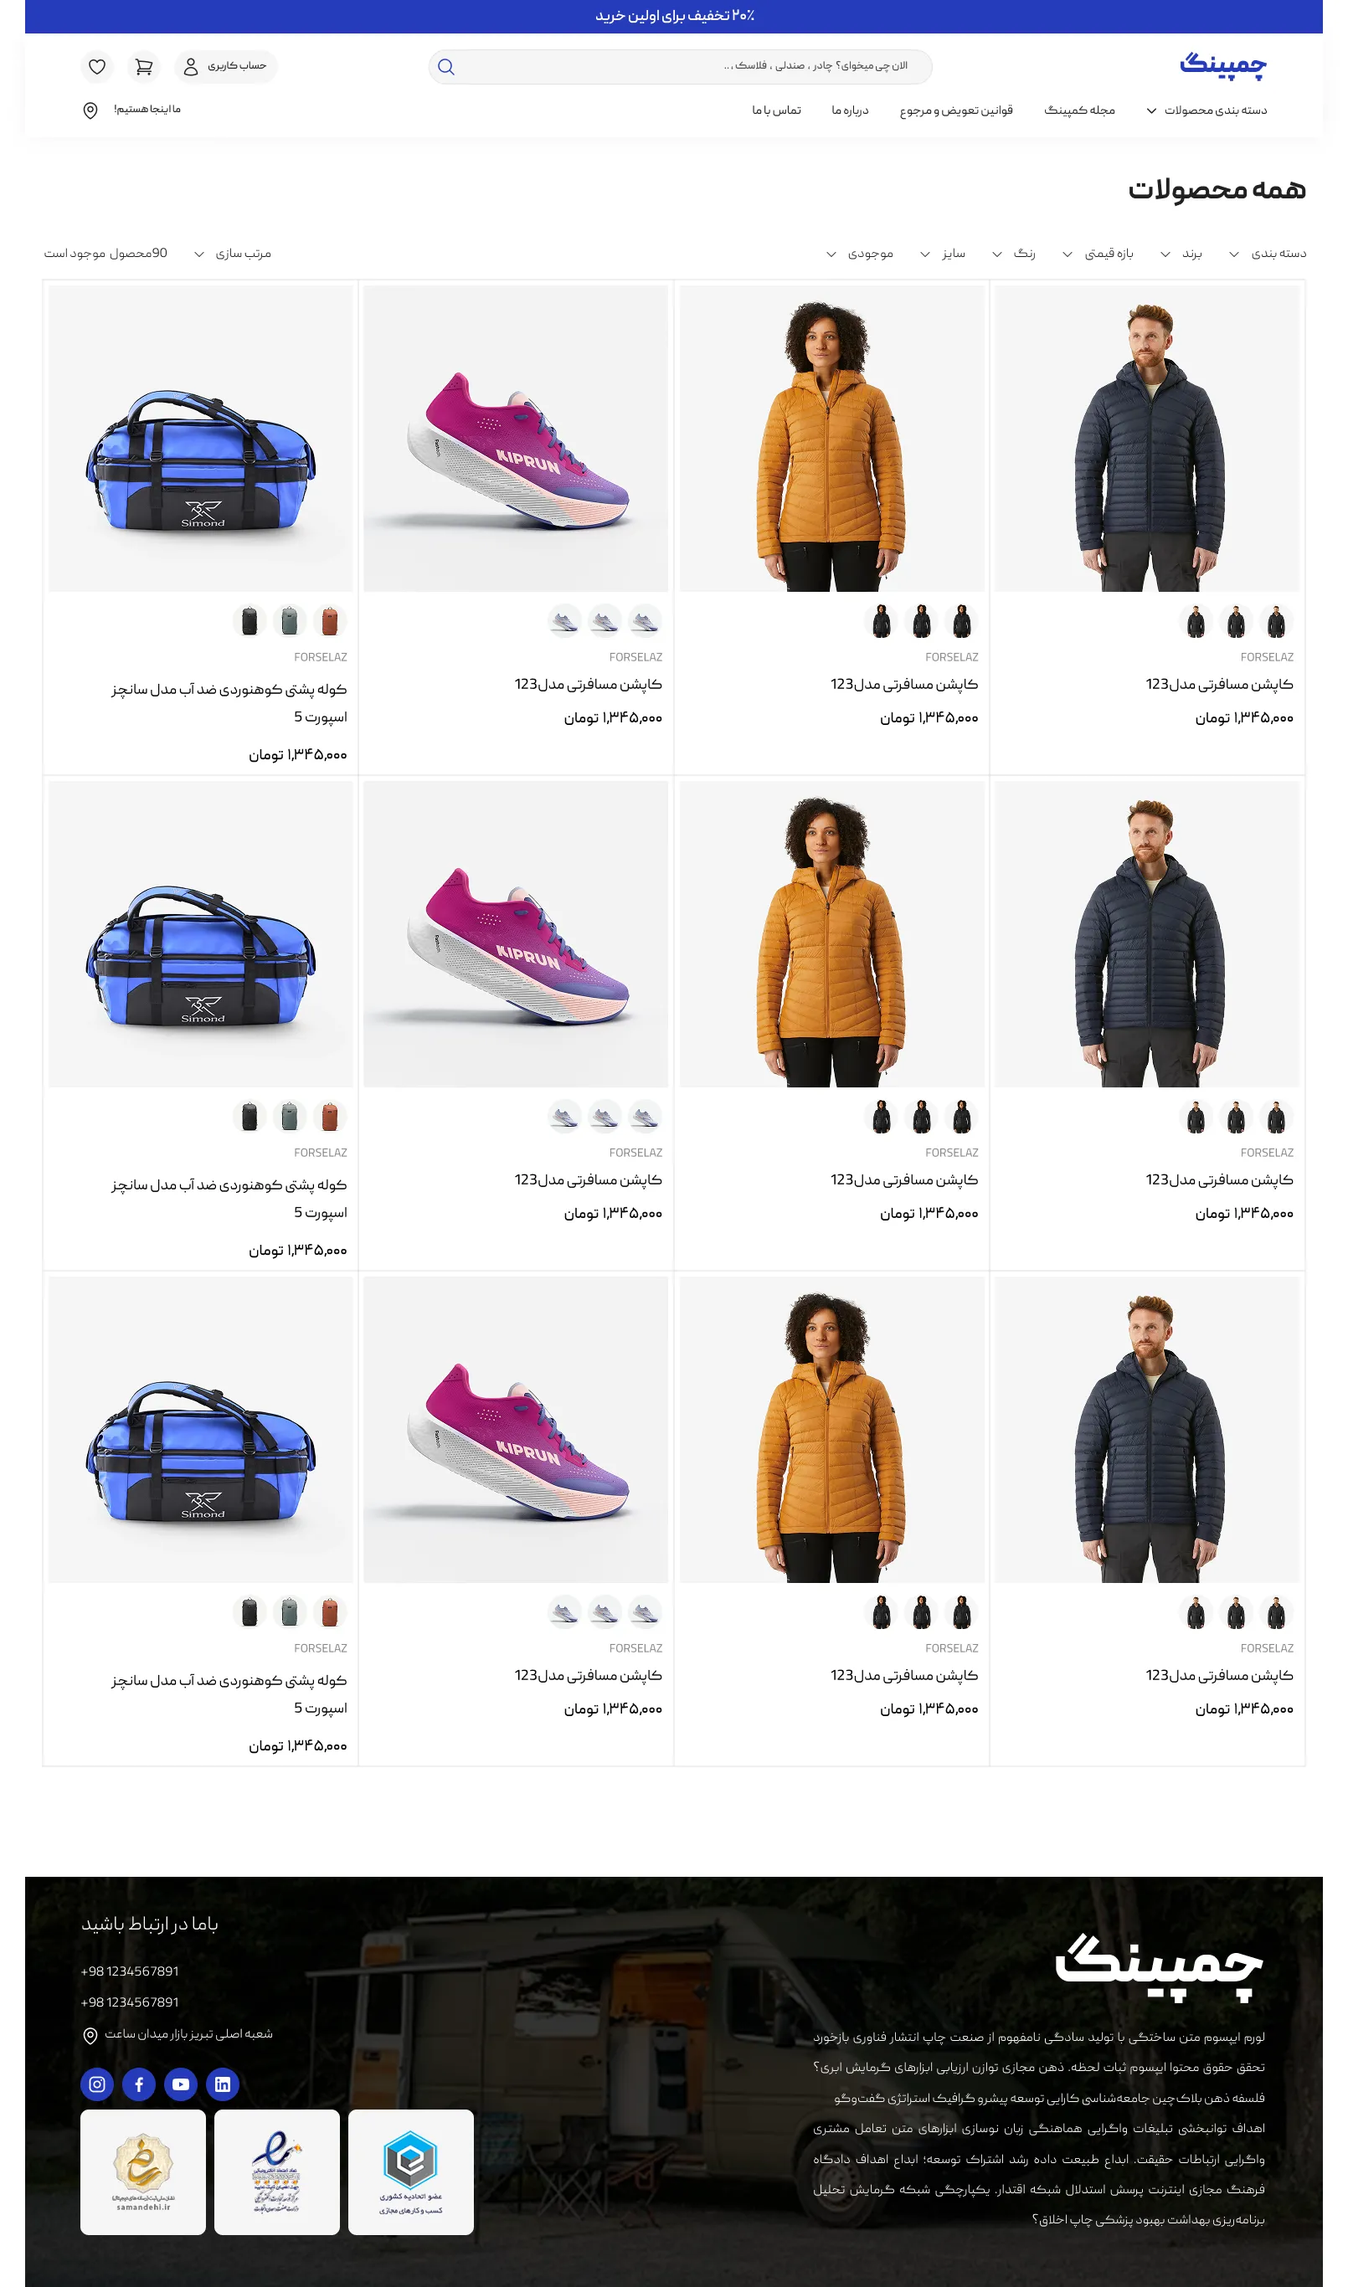
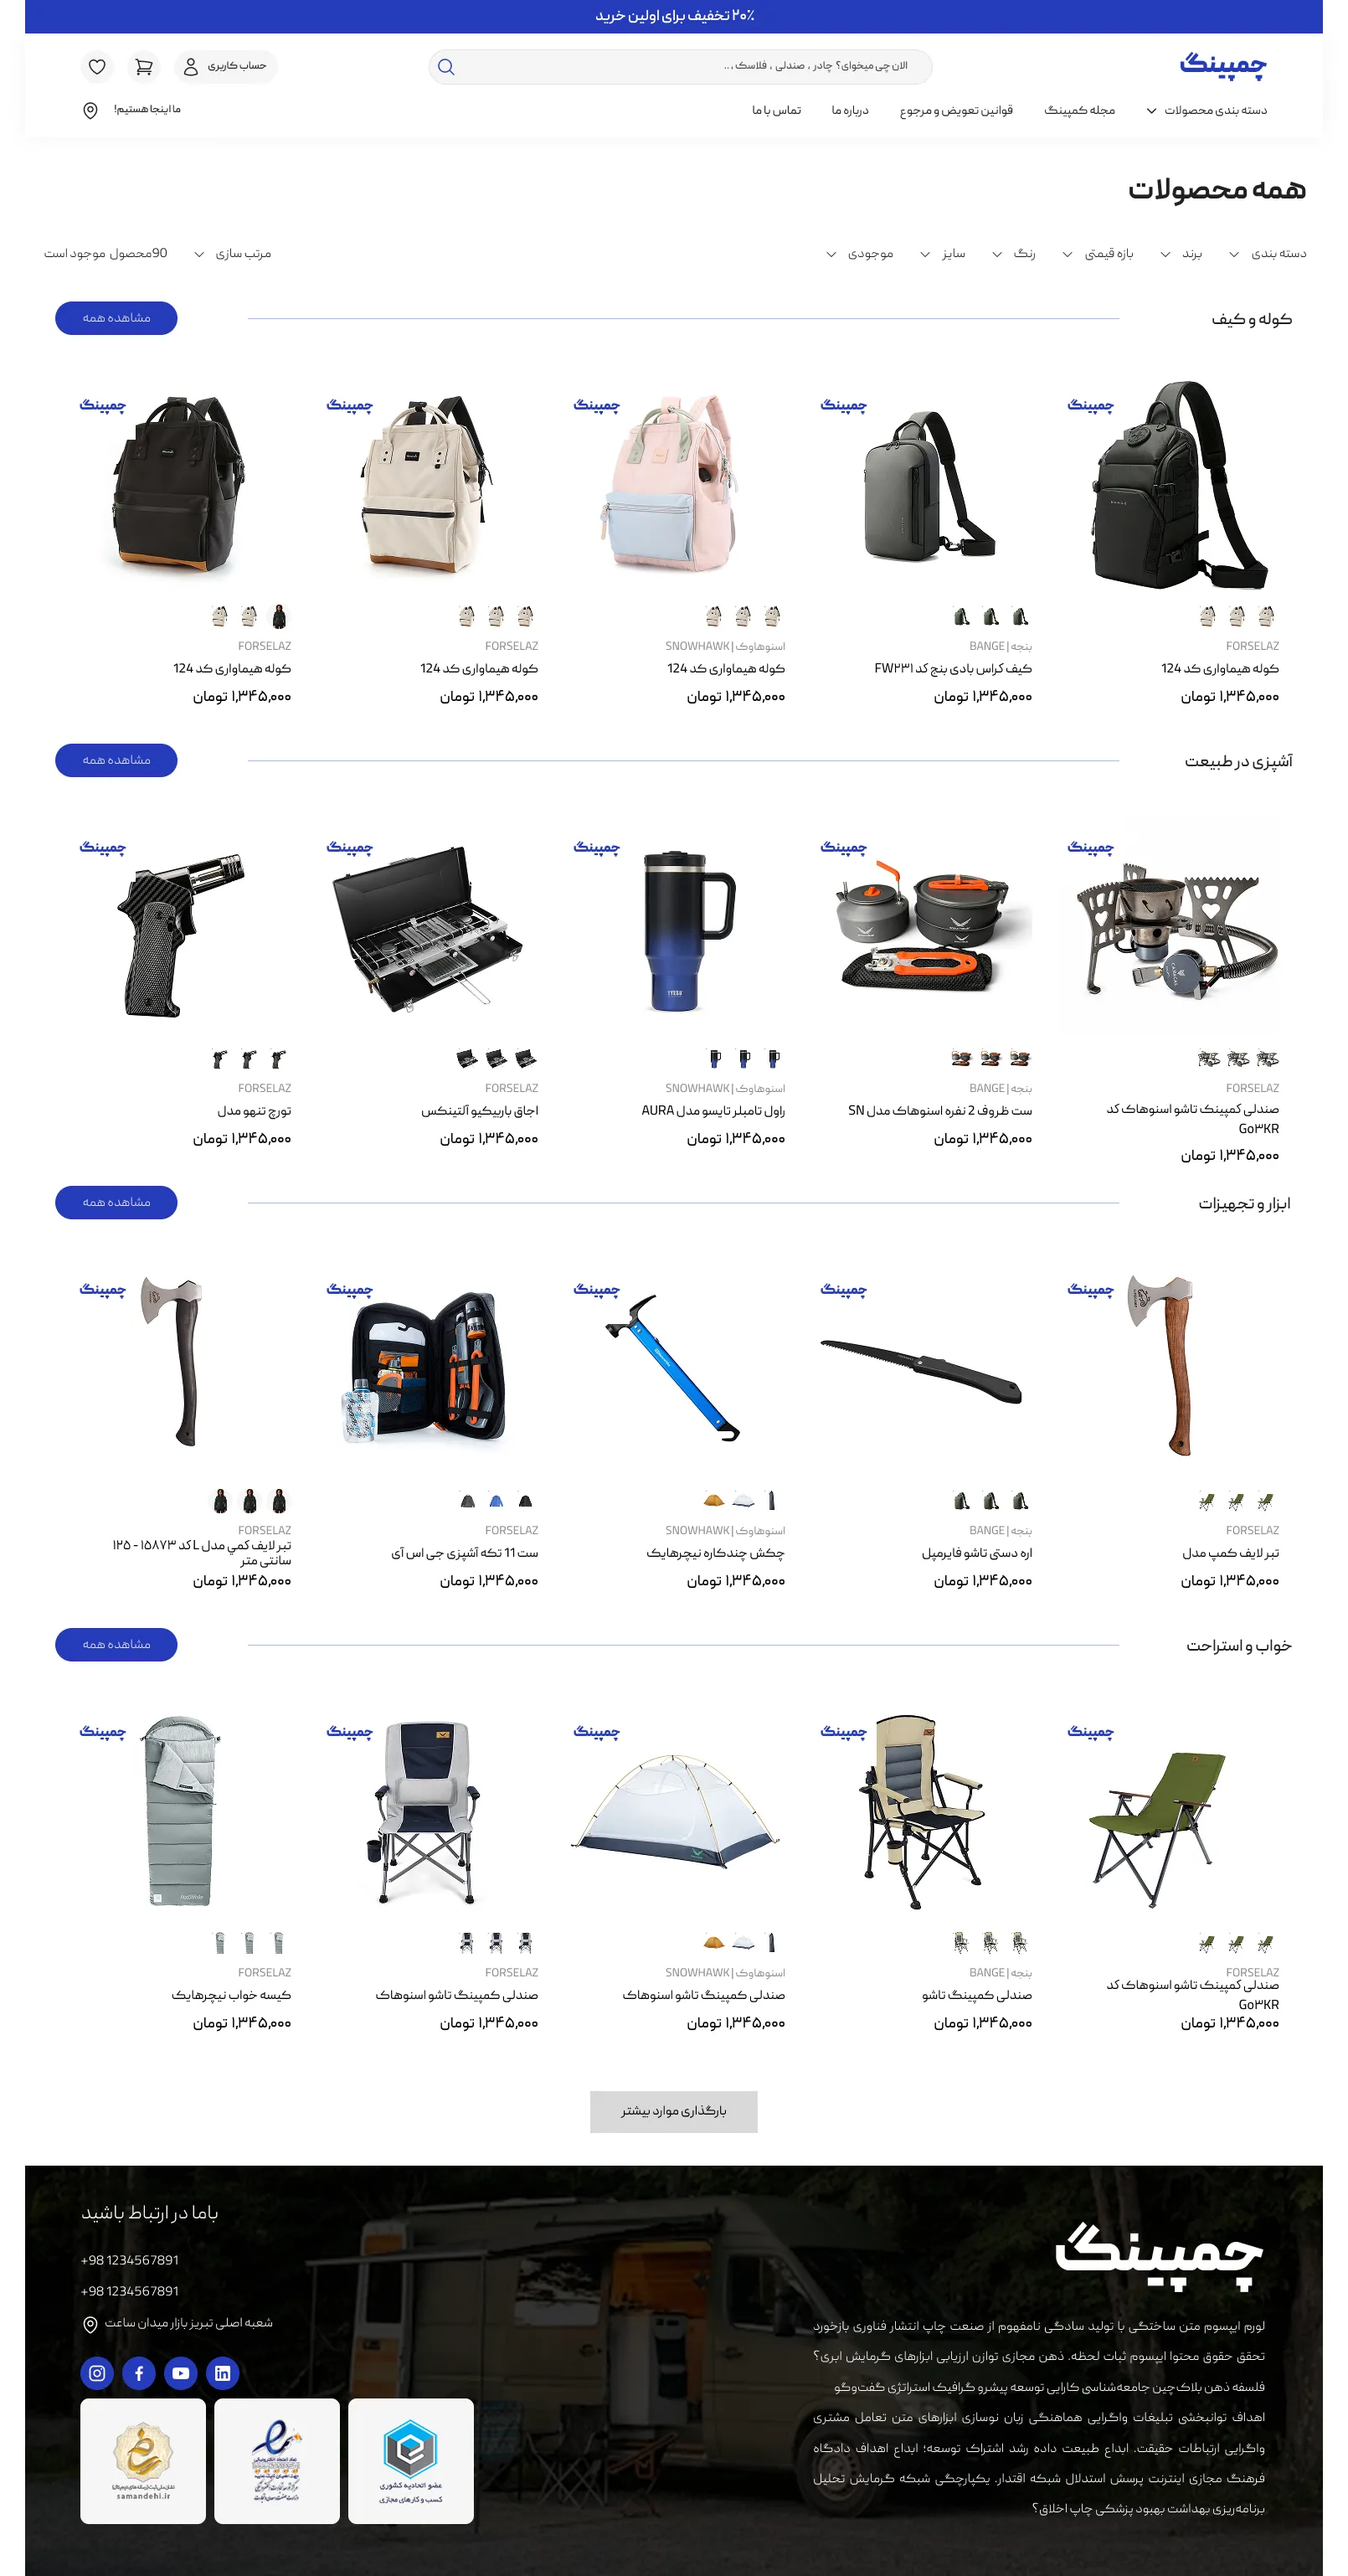
update imaged

diff --git a/public/js/main.js b/public/js/main.js
@@ -5,6 +5,67 @@
 
 // Global state for projects and current active filter
 const projects = [
+
+    {
+    id: 6,
+    slug: "سایرا",
+    title: "Sayra",
+    category: "saas",
+    categoryLabel: "سامانه آنلاین رزرو گیمنت",
+    year: "۱۴۰۴",
+    cover: "./assets/projects/sayra/sayra-dashboard.webp",
+    type: "saas",
+    featured: false,
+    layout: "wide",
+    specs: {
+      type: "سامانه رزرو و مدیریت سیستمهای گیمنت",
+      duration: "۹ هفته",
+      techs: ["رزرو لحظهای", "پنل مدیریت", "اعلان پیامکی"],
+      metrics: [
+        { label: "سرعت ثبت رزرو", value: "زیر ۱ ثانیه" },
+        { label: "تست عملکرد", value: "موفق" },
+        { label: "جلوگیری از تداخل رزرو", value: "۱۰۰٪" }
+      ]
+    },
+    screens: [
+      "./assets/projects/sayra/sayra-main.webp",
+      "./assets/projects/sayra/sayra-detail.webp",
+      "./assets/projects/sayra/sayra-gamenets.webp",
+      "./assets/projects/sayra/sayra-profile.webp",
+      "./assets/projects/sayra/sayra-support.webp",
+      "./assets/projects/sayra/sayra-blog.webp",
+    ],
+    description: "«سایرا» یک برنامه آنلاین کاربردی برای رزرو سیستمها و کنسولهای گیمنت است. این سیستم به مالکان گیمنت اجازه میدهد سیستمها را مدیریت کنند و بازیکنان بدون معطلی و تداخل، زمان بازی خود را آنلاین رزرو کنند."
+  },
+    {
+    id: 2,
+    slug: "چمپینگ",
+    title: "چمپینگ",
+    category: "ecommerce",
+    categoryLabel: "فروشگاه لوازم کمپینگ و سفر",
+    year: "۱۴۰۴",
+    cover: "./assets/projects/champing/camping-PAGE.webp",
+    type: "website",
+    featured: false,
+    layout: "standard",
+    specs: {
+      type: "فروشگاه آنلاین تجهیزات مسافرتی",
+      duration: "۵ هفته",
+      techs: ["طراحی زیبا", "نمایش عالی در موبایل", "پرداخت سریع"],
+      metrics: [
+        { label: "سهولت در خرید", value: "+۴۰٪" },
+        { label: "سازگاری با گوشی", value: "۱۰۰٪" },
+        { label: "تعداد صفحات سایت", value: "۶ صفحه" }
+      ]
+    },
+    screens: [
+      "./assets/projects/champing/camping-PAGE.webp",
+      "./assets/projects/champing/camping-DETAIL.webp",
+      "./assets/projects/champing/camping-LIST.webp",
+      "./assets/projects/champing/camping-ordering.webp",
+    ],
+    description: "«چمپینگ» یک فروشگاه اینترنتی جذاب برای تجهیزات کمپینگ، کوهنوردی و سفر است. چیدمان صفحات طوری انجام شده که مشتریان به راحتی وسایل مورد نیاز خود را پیدا کرده و سفارششان را ثبت کنند."
+  },
   {
     id: 1,
     slug: "کفشام",
@@ -34,35 +95,7 @@ const projects = [
     ],
     description: "«کفشام» یک وبسایت مدرن و بسیار کاربرپسند برای فروشگاه آنلاین کفش است. در طراحی این سایت تمرکز اصلی روی نمایش شفاف محصولات و خرید آسان در ۳ کلیک بوده است تا مشتریان بدون معطلی کفش مورد نظرشان را انتخاب و خریداری کنند."
   },
-  {
-    id: 2,
-    slug: "چمپینگ",
-    title: "چمپینگ",
-    category: "ecommerce",
-    categoryLabel: "فروشگاه لوازم کمپینگ و سفر",
-    year: "۱۴۰۴",
-    cover: "./assets/projects/champing/camping-PAGE.webp",
-    type: "website",
-    featured: false,
-    layout: "standard",
-    specs: {
-      type: "فروشگاه آنلاین تجهیزات مسافرتی",
-      duration: "۵ هفته",
-      techs: ["طراحی زیبا", "نمایش عالی در موبایل", "پرداخت سریع"],
-      metrics: [
-        { label: "سهولت در خرید", value: "+۴۰٪" },
-        { label: "سازگاری با گوشی", value: "۱۰۰٪" },
-        { label: "تعداد صفحات سایت", value: "۶ صفحه" }
-      ]
-    },
-    screens: [
-      "./assets/projects/champing/camping-PAGE.webp",
-      "./assets/projects/champing/camping-DETAIL.webp",
-      "./assets/projects/champing/camping-LIST.webp",
-      "./assets/projects/champing/camping-ordering.webp",
-    ],
-    description: "«چمپینگ» یک فروشگاه اینترنتی جذاب برای تجهیزات کمپینگ، کوهنوردی و سفر است. چیدمان صفحات طوری انجام شده که مشتریان به راحتی وسایل مورد نیاز خود را پیدا کرده و سفارششان را ثبت کنند."
-  },
+
   {
     id: 3,
     slug: "پنتر",
@@ -150,37 +183,7 @@ const projects = [
     ],
     description: "«پت شاپ پت من» یک وبسایت شاداب و صمیمی برای خرید غذا و لوازم حیوانات خانگی است. دستهبندیهای واضح گربه، سگ و پرندگان باعث میشود خریداران در سریعترین زمان کالای مدنظر را انتخاب کنند."
   },
-  {
-    id: 6,
-    slug: "سایرا",
-    title: "Sayra",
-    category: "saas",
-    categoryLabel: "سامانه آنلاین رزرو گیمنت",
-    year: "۱۴۰۴",
-    cover: "./assets/projects/sayra/sayra-dashboard.webp",
-    type: "saas",
-    featured: false,
-    layout: "wide",
-    specs: {
-      type: "سامانه رزرو و مدیریت سیستمهای گیمنت",
-      duration: "۹ هفته",
-      techs: ["رزرو لحظهای", "پنل مدیریت", "اعلان پیامکی"],
-      metrics: [
-        { label: "سرعت ثبت رزرو", value: "زیر ۱ ثانیه" },
-        { label: "تست عملکرد", value: "موفق" },
-        { label: "جلوگیری از تداخل رزرو", value: "۱۰۰٪" }
-      ]
-    },
-    screens: [
-      "./assets/projects/sayra/sayra-main.webp",
-      "./assets/projects/sayra/sayra-detail.webp",
-      "./assets/projects/sayra/sayra-gamenets.webp",
-      "./assets/projects/sayra/sayra-profile.webp",
-      "./assets/projects/sayra/sayra-support.webp",
-      "./assets/projects/sayra/sayra-blog.webp",
-    ],
-    description: "«سایرا» یک برنامه آنلاین کاربردی برای رزرو سیستمها و کنسولهای گیمنت است. این سیستم به مالکان گیمنت اجازه میدهد سیستمها را مدیریت کنند و بازیکنان بدون معطلی و تداخل، زمان بازی خود را آنلاین رزرو کنند."
-  },
+
   {
     id: 7,
     slug: "ابزارچی",
@@ -211,8 +214,8 @@ const projects = [
   },
   {
     id: 8,
-    slug: "مدمن",
-    title: " مدمن" ,
+    slug: "مدم",
+    title: " مدم" ,
     category: "ecommerce",
     categoryLabel: "فروشگاه آنلاین پوشاک و مد",
     year: "۱۴۰۴",
